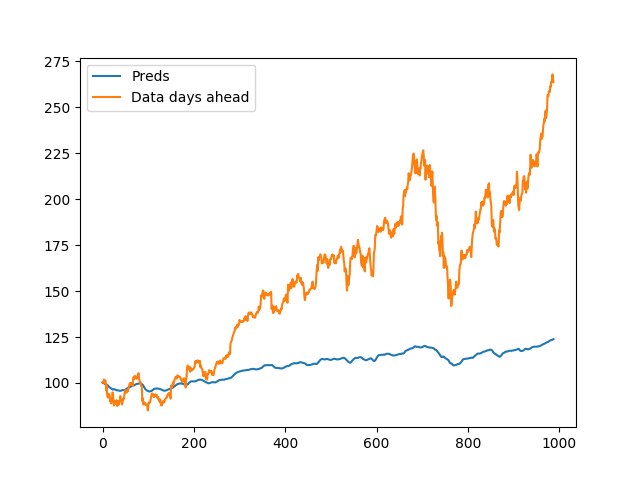
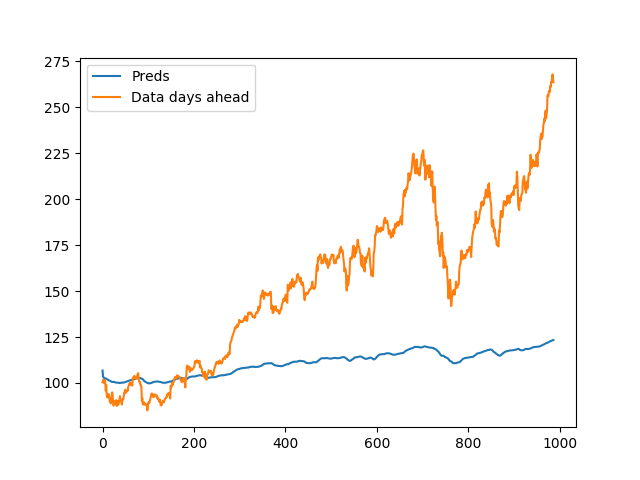
PBT completed for hidden layer size, number of layers and dropout

diff --git a/PBTTrainer.py b/PBTTrainer.py
@@ -16,7 +16,7 @@ path = os.getcwd()
 
 
 
-def RunModel(X,lr ,hiddenDimension,seq_length=10,numberLayers = 1,predict_distance = 1,num_epochs = 5,ID= None):
+def RunModel(X,lr ,hiddenDimension,seq_length=10,numberLayers = 1,predict_distance = 1,dropout = 0,num_epochs = 5,ID= None):
 
 #Create dictionary of hyperparameters
 
@@ -28,6 +28,7 @@ def RunModel(X,lr ,hiddenDimension,seq_length=10,numberLayers = 1,predict_distan
 		"seq_length": seq_length,
 		"numberLayers":numberLayers,
 		"predict_distance":predict_distance,
+		"dropout":dropout,
 		"num_epochs":num_epochs,
 		"ID":ID
 	}
@@ -69,26 +70,39 @@ def RunModel(X,lr ,hiddenDimension,seq_length=10,numberLayers = 1,predict_distan
 	##Convert samples and lables
 	samples = torch.cuda.FloatTensor(X)
 	lables = torch.cuda.FloatTensor(y)
-
+	print(samples.size())
+	exit()
 ######################################################################################################################
 
 
 	
-	model = LSTMModel(input_dim = 1, hidden_dim = hiddenDimension,seq= seq_length, output_dim=1, layer_dim=numberLayers)
+	model = LSTMModel(input_dim = 1, hidden_dim = hiddenDimension,seq= seq_length, output_dim=1, layer_dim=numberLayers,dropout = dropout)
+	
 	if ID != None:
 		#model.load_state_dict(torch.load(path+"/Models/"+str(ID)+".pth")) 
 		#model = torch.load(path+"/Models/"+str(ID)+".pth")
-		print("model loaded!")
 		for i in model.state_dict():
+
 			if i in ID:
 
-				#if model.state_dict()[i].size() != ID[i].size():
-					#print(model.state_dict()[i].size())
-					#print(ID[i].size())
+				if len(model.state_dict()[i].size()) == 2:
+					if model.state_dict()[i].size()[0]-ID[i].size()[0] > 0:
+						paddingRows = torch.zeros(model.state_dict()[i].size()[0]-ID[i].size()[0],ID[i].size()[1])
+						ID[i] = torch.cat((ID[i],paddingRows),0)
 
+					if model.state_dict()[i].size()[1]-ID[i].size()[1] > 0:
+						paddingCols = torch.zeros(ID[i].size()[0],model.state_dict()[i].size()[1]-ID[i].size()[1])
+						
+						ID[i] = torch.cat((ID[i],paddingCols),1)
+				
+				elif len(model.state_dict()[i].size()) == 1:
+					if model.state_dict()[i].size()[0]-ID[i].size()[0] > 0:	
+						paddingRows = torch.zeros(model.state_dict()[i].size()[0]-ID[i].size()[0])
+						
+						ID[i] = torch.cat((ID[i],paddingRows),0)
 
 				model.state_dict()[i] = ID[i]
-		#model.lstm.
+				
 		
 		
 		
@@ -217,7 +231,7 @@ def RunModel(X,lr ,hiddenDimension,seq_length=10,numberLayers = 1,predict_distan
 	plt.savefig(("Graphs/"+str(float(error))+".png"))
 	plt.clf()
 	#MAPE
-	print("lr:",lr ," ;hiddenDimension:",hiddenDimension," ;numberLayers:",numberLayers," ;seq_length:",seq_length, " -- MAPE:",float(error),"%")
+	print("lr:",lr ," ;hiddenDimension:",hiddenDimension," ;numberLayers:",numberLayers," ;seq_length:",seq_length," ;dropout:",dropout," -- MAPE:",float(error),"%")
 	
 	#RMSE
 	#print("lr:",lr ," ;hiddenDimension:",hiddenDimension," ;numberLayers:",numberLayers," ;seq_length:",seq_length, " -- RMSE:",float(error))
@@ -236,6 +250,7 @@ def RunModel(X,lr ,hiddenDimension,seq_length=10,numberLayers = 1,predict_distan
 		"seq_length": seq_length,
 		"numberLayers":numberLayers,
 		"predict_distance":predict_distance,
+		"dropout":dropout,
 		"num_epochs":num_epochs,
 		"ID":statedict
 	}

diff --git a/Utils.py b/Utils.py
@@ -54,7 +54,7 @@ def Exploit(probability, models,score,file):	##Selection offset
 			return output
 
 	#return the same model if within the number of healthy models 
-	return Explore(models[score],file)
+	return Explore(models[score],file, 0)
 
 	#Find high proforming networks
 	#Select network based on a probability distrobution
@@ -68,15 +68,22 @@ def Explore(hyperparameters,file,mutation = 0.2):
 	mutablesh = ["hiddenDimension","numberLayers"]
 	output = [file]
 	for i in hyperparameters:
-		print(i)
-		if i == "lr":
+		if i != "ID":
+			print(i,"pre mutation: ", hyperparameters[i])
+		if i == "lr" or i == "dropout":
 			x = hyperparameters[i] + hyperparameters[i]*random.uniform(-1,1)*mutation
 		elif i == "seq_length":
-			x = int(hyperparameters[i]+random.randint(-1,1))
+			if hyperparameters[i] == 1:
+				x = int(hyperparameters[i]+random.randint(0,1))
+			else:
+				x = int(hyperparameters[i]+random.randint(-1,1))
+
 		elif i == "hiddenDimension" or i == "numberLayers":
-			x = int(hyperparameters[i]+math.ceil(random.uniform(0,1))*(mutation)*hyperparameters[i])
+			x = int(hyperparameters[i]+math.ceil(random.uniform(0,1)*(mutation)*hyperparameters[i]))
 		else:
 			x = hyperparameters[i]
+		if i != "ID":
+			print(i," post mutation: ",x)
 		output.append(x)
 	return output
 

diff --git a/model.py b/model.py
@@ -49,7 +49,7 @@ class LSTM(nn.Module):
 
 
 class LSTMModel(nn.Module):
-    def __init__(self, input_dim, hidden_dim, layer_dim, output_dim,seq):
+    def __init__(self, input_dim, hidden_dim, layer_dim, output_dim,seq,dropout,batch_size = 1):
         super(LSTMModel, self).__init__()
         
         self.seq_len = seq
@@ -57,7 +57,7 @@ class LSTMModel(nn.Module):
         self.input_dim = input_dim
         self.layer_dim = layer_dim
 
-        self.lstm = nn.LSTM(input_dim, hidden_dim, layer_dim, batch_first=False,dropout = 0)
+        self.lstm = nn.LSTM(input_dim, hidden_dim, layer_dim, batch_first=False,dropout = dropout)
         self.act = nn.ReLU()
         # Readout layer
         self.fc = nn.Linear(hidden_dim, output_dim)
@@ -71,7 +71,7 @@ class LSTMModel(nn.Module):
 
     def forward(self, x):
         
-        out, (self.h0, self.c0) = self.lstm(x.view(self.seq_len,1,-1), (self.h0.detach(), self.c0.detach()))
+        out, (self.h0, self.c0) = self.lstm(x.view(self.seq_len,batch_size,-1), (self.h0.detach(), self.c0.detach()))
         out = self.act(out) 
         out = self.fc(out[-1,-1,:])
         

diff --git a/PBTSearch.py b/PBTSearch.py
@@ -31,7 +31,8 @@ hyperparameters = {
 	"seq_length": [1,50,"int"],
 	"numberLayers":[1,1,"int"],
 	"predict_distance":[1,1,"int"],
-	"num_epochs":[3,3,"int"]
+	"dropout":[0.01,0.1,"log"],
+	"num_epochs":[2,2,"int"]
 }
 
 
@@ -71,7 +72,7 @@ if __name__ == "__main__":
 	p.join()
 	"""
 	end = True
-	counter = 10
+	counter = 3
 	Models = {}
 	
 	while end == True:
